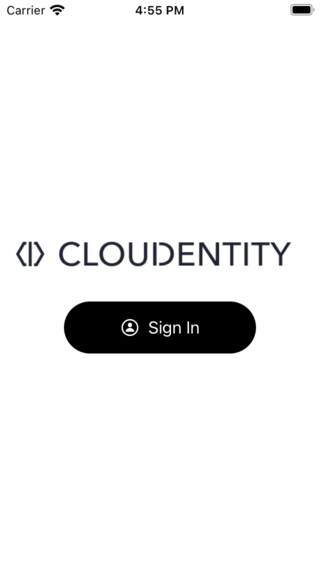
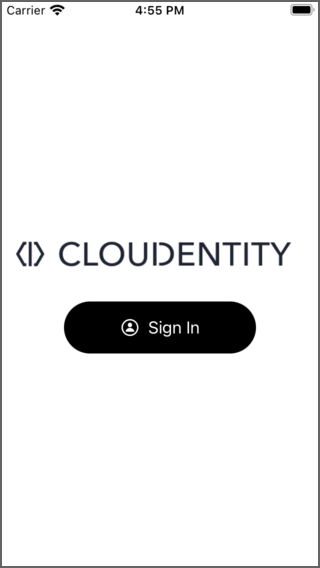
add border main

Changed region(s): [[0.0, 0.0, 1.0, 1.0]]

diff --git a/simple-pkce/README.md b/simple-pkce/README.md
@@ -73,8 +73,6 @@ Run the application and verify there are no errors. You should see the sign-in s
   <img src="img/main.png" alt="sign in screen" style="max-width: 100%; border: 2px solid #555;"" />
 </p>
 
-![sign in screen](img/main.png?raw=true.png)
-
 Now log in to the application by tapping 'Sign In'. You should see no errors and be presented with the Cloudentity OAuth sign in modal. 
 ![oauth sign in screen](img/modal.png?raw=true.png)
 
